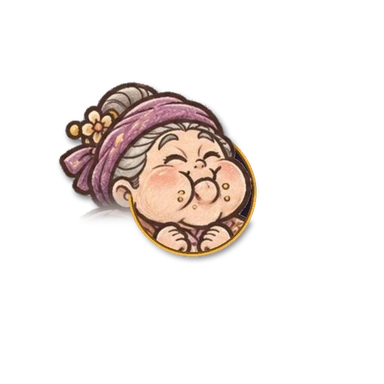
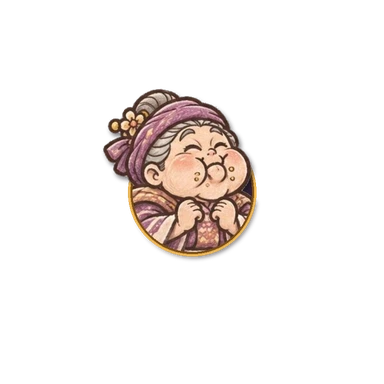
kpi: 考核官頭像出圈改「頸線法」（popout.py v3）：頸線以上成個頭、官帽連展腳全長完整出圈，頸線以下只留圈內由金圈前緣蓋住，圈外冇切口冇淡出；六位重出；加 kpi_avatar_check.py（貼邊／頭部完整／展腳尖／切口／大細圖一致）六張全過
Claude-Session: https://claude.ai/code/session_01UmiVpDHfnmvxquNGxGA5Pc

Changed region(s): [[0.1562, 0.1875, 0.6875, 0.6562]]

diff --git a/art/vil2/kpi_boss/popout.py b/art/vil2/kpi_boss/popout.py
@@ -1,17 +1,22 @@
-# 考核官頭像「探出圈」合成：深紫圓底＋金邊圈；帽／頭頂越出圈上緣，下半身被圈底裁走，金圈前緣蓋住身體
-import sys, numpy as np
+# 考核官頭像「探出圈」合成 v3（頸線法）：深紫圓底＋金邊圈。
+# 做法：自動搵「頸線」（臉以下輪廓最窄嗰行），縮放＋擺位令頸線兩端都喺圈內；
+#   頸線以上（成個頭、官帽連展腳全長、頭巾、頭髮、面珠）完整保留、可以出圈；
+#   頸線以下只留圈內，由金圈前緣蓋住。咁樣圈外冇任何切口、冇淡出，頭部一定完整。
+# 用法：python3 popout.py <spr 目錄> <輸出目錄> <預覽 jpg> <meta json>；之後跑 godot/tools/devkit/art/kpi_avatar_check.py
+import sys, json, numpy as np
 from PIL import Image, ImageDraw, ImageFilter
 from scipy import ndimage
 SPR = sys.argv[1]; OUT = sys.argv[2]
-# key: (src, 臉中心 y 比例, 頭頂到臉中心想佔幾多 R)
 # key: (src, 臉中心 x 比例, 臉中心 y 比例, 要刪嘅漂浮道具框 (x0,y0,x1,y1) 比例或 None)
 CH = {"chen": ("kpi_boss_chen_full.webp", 0.435, 0.285, (0.70, 0.185, 1.0, 0.56)),
       "he": ("kpi_boss_he_full.webp", 0.40, 0.27, (0.675, 0.13, 1.0, 0.42)),
       "qian": ("kpi_boss_qian_full.webp", 0.32, 0.31, None), "dato": ("kpi_boss_dato_full.webp", 0.41, 0.265, None),
       "nuo": ("kpi_boss_nuo_full.webp", 0.44, 0.25, None), "pang": ("bm_pang.webp", 0.45, 0.255, None)}
-SPAN = 1.45      # 頭頂到臉中心 = 1.5R（帽約 1/3 頭高出圈）
-FACE_DY = -0.28 # 臉中心喺圓心上少少
 R = 128; CAN = 768; C = CAN // 2   # 畫布＝圓直徑 3 倍（帽展腳全長都裝得落）
+NECK_W = 1.78    # 頸線闊度上限（以 R 計；圈弦長喺頸線高度一定大過佢）
+HEAD_H = 1.95    # 頭頂到頸線高度上限（以 R 計）
+TOP = 1.62       # 頭頂喺圓心上面幾多 R（即出圈約 0.6R）
+MARGIN = 5       # 頸線兩端離圈邊最少幾多 px
 def main_body(im):
     a = np.array(im)[:, :, 3] > 24
     lab, n = ndimage.label(a)
@@ -20,6 +25,12 @@ def main_body(im):
     keep = lab == (int(np.argmax(sizes)) + 1)
     arr = np.array(im); arr[:, :, 3] = np.where(keep, arr[:, :, 3], 0)
     return Image.fromarray(arr)
+def find_neck(im, fy):
+    a = np.array(im)[:, :, 3] > 60; H = a.shape[0]; best = None
+    for y in range(int(fy * H), int((fy + 0.22) * H)):
+        xs = np.nonzero(a[y])[0]; w = int(xs.max() - xs.min())
+        if best is None or w < best[0]: best = (w, y, int(xs.min()), int(xs.max()))
+    return best
 def make(key):
     src, fx, fy, prop = CH[key]
     im = Image.open(f"{SPR}/{src}").convert("RGBA")
@@ -28,83 +39,61 @@ def make(key):
         a[int(prop[1] * H0):int(prop[3] * H0), int(prop[0] * W0):int(prop[2] * W0), 3] = 0
         im = Image.fromarray(a)
     im = main_body(im)
-    if prop:
-        a2 = np.array(im)[:, :, 3]; W0, H0 = im.size
-        x0 = int(prop[0] * W0); y0 = int(prop[1] * H0); y1 = int(prop[3] * H0)
-        PROPCUT[key] = int(np.sum(a2[max(0, y0):min(y1, int(fy * H0)), max(0, x0 - 1)] > 120)) + int(np.sum(a2[max(0, y0 - 1), x0:] > 120))
-    bb = im.getbbox(); top = bb[1]
-    face_x = fx * im.width; face_y = fy * im.height
-    s = SPAN * R / max(1.0, face_y - top)
-    fig = im.resize((int(im.width * s), int(im.height * s)), Image.LANCZOS)
-    ox = int(round(C - face_x * s)); oy = int(round(C + FACE_DY * R - face_y * s))
+    top = im.getbbox()[1]
+    nw, ny, nl, nr = find_neck(im, fy)
+    s = min(NECK_W * R / nw, HEAD_H * R / (ny - top))
+    hh = (ny - top) * s / R                       # 頭高（R）
+    dy = float(np.clip(hh - TOP, -0.30, 0.35))    # 頸線喺圓心下面幾多 R
+    Yn = int(round(C + dy * R))
+    half = (R * R - (Yn - C) ** 2) ** 0.5 - MARGIN - 3
+    fig = im.resize((int(round(im.width * s)), int(round(im.height * s))), Image.LANCZOS)
+    ox = C - fx * im.width * s                    # 先以臉中心對圓心，再最少量平移令頸線兩端入圈
+    l = ox + nl * s; r = ox + nr * s
+    if r - l > 2 * half: ox += C - (l + r) / 2
+    elif l < C - half: ox += (C - half) - l
+    elif r > C + half: ox -= r - (C + half)
+    ox = int(round(ox)); oy = int(round(Yn - ny * s))
     layer = Image.new("RGBA", (CAN, CAN)); layer.paste(fig, (ox, oy), fig)
-    # 遮罩：圈內全顯；臉中心以上（帽＋展腳全長＋頭頂）全闊保留；臉中心至下巴只留頭部橢圓；以下只留圈內
-    fyc = C + FACE_DY * R
+    # 遮罩：圈內全顯；頸線以上全部保留
     m = Image.new("L", (CAN, CAN), 0); d = ImageDraw.Draw(m)
+    d.rectangle((0, 0, CAN, Yn), fill=255)
     d.ellipse((C - R + 3, C - R + 3, C + R - 3, C + R - 3), fill=255)
-    d.rectangle((0, 0, CAN, int(fyc)), fill=255)
-    d.ellipse((int(C - 1.22 * R), int(fyc - 1.6 * R), int(C + 1.22 * R), int(fyc + 0.62 * R)), fill=255)
-    # 圈外、連住頭頂嘅整塊（斜展腳、頭巾尾、頭髮）：按連通塊整塊保留，唔用直線切
-    al0 = np.array(layer)[:, :, 3]
-    yy0, xx0 = np.mgrid[0:CAN, 0:CAN]
-    outc0 = (xx0 - C) ** 2 + (yy0 - C) ** 2 > (R - 2) ** 2
-    zone = outc0 & (yy0 < fyc + 0.9 * R) & (al0 > 6)
-    lab, n = ndimage.label(zone)
-    if n:
-        hit = np.unique(lab[(yy0 < fyc) & zone])
-        keep = np.isin(lab, hit[hit > 0])
-        keep = ndimage.binary_dilation(keep, iterations=3).astype(np.float32)
-        # 連住頭嘅膊頭：由耳仔高度向下慢慢淡出（長漸變，唔係硬切）
-        wy = np.clip((fyc + 0.7 * R - yy0) / (0.45 * R), 0.0, 1.0)
-        ma0 = np.maximum(np.array(m).astype(np.float32), keep * wy * 255.0).astype(np.uint8)
-        m = Image.fromarray(ma0)
-    m = m.filter(ImageFilter.GaussianBlur(2.2))
-    # 硬切口檢查：圈外、遮罩半透明而角色實心嘅像素
-    ma = np.array(m).astype(np.float32); al = np.array(layer)[:, :, 3].astype(np.float32)
-    yy, xx = np.mgrid[0:CAN, 0:CAN]; outc = (xx - C) ** 2 + (yy - C) ** 2 > (R + 6) ** 2
-    gy, gx = np.gradient(ma); gm = np.hypot(gx, gy)
-    hard = outc & (al > 160) & (gm > 255.0 / 10.0)   # 10 px 內由實變透＝硬切口
-    cuts = int(np.sum(hard))
-    edge = int(np.sum(al[0, :] > 10) + np.sum(al[:, 0] > 10) + np.sum(al[:, -1] > 10))
-    CUTS[key] = (cuts, edge)
-    ys, xs = np.nonzero(hard)
-    if len(ys): CUTS[key] = (cuts, edge, int(ys.min()-C), int(ys.max()-C), int(xs.min()-C), int(xs.max()-C))
-    la = np.array(layer); la[:, :, 3] = (la[:, :, 3].astype(np.float32) * np.array(m) / 255.0).astype(np.uint8)
+    la = np.array(layer); ma = np.array(m)
+    la[:, :, 3] = np.where(ma > 0, la[:, :, 3], 0)
     fig_m = Image.fromarray(la)
     out = Image.new("RGBA", (CAN, CAN))
-    d2 = ImageDraw.Draw(out)
-    d2.ellipse((C - R, C - R, C + R, C + R), fill=(58, 36, 64, 245))
-    # 圈內暗角
+    ImageDraw.Draw(out).ellipse((C - R, C - R, C + R, C + R), fill=(58, 36, 64, 245))
     vg = Image.new("L", (CAN, CAN), 0); ImageDraw.Draw(vg).ellipse((C - R + 14, C - R + 14, C + R - 14, C + R - 14), fill=255)
     vg = vg.filter(ImageFilter.GaussianBlur(14)); dark = Image.new("RGBA", (CAN, CAN), (20, 10, 24, 0))
     circ = Image.new("L", (CAN, CAN), 0); ImageDraw.Draw(circ).ellipse((C - R, C - R, C + R, C + R), fill=255)
     dark.putalpha(Image.fromarray((np.array(circ) * (1 - np.array(vg) / 255.0) * 0.55).astype(np.uint8)))
     out.alpha_composite(dark)
-    # 金圈（後）
     ring = lambda dr, w, col: dr.ellipse((C - R, C - R, C + R, C + R), outline=col, width=w)
     ring(ImageDraw.Draw(out), 9, (122, 78, 26, 255)); ring(ImageDraw.Draw(out), 5, (232, 176, 74, 255))
-    # 投影（出圈部分最明顯）
+    # 投影（只做出圈部分）
     sh = Image.new("RGBA", (CAN, CAN), (10, 4, 12, 0)); sa = np.array(fig_m)[:, :, 3]
-    sh.putalpha(Image.fromarray((sa * 0.55).astype(np.uint8)))
-    sh = sh.filter(ImageFilter.GaussianBlur(5)); sh2 = Image.new("RGBA", (CAN, CAN)); sh2.alpha_composite(sh, (5, 7))
+    sh.putalpha(Image.fromarray((sa * 0.5).astype(np.uint8)))
+    sh = sh.filter(ImageFilter.GaussianBlur(4)); sh2 = Image.new("RGBA", (CAN, CAN)); sh2.alpha_composite(sh, (4, 6))
     out.alpha_composite(sh2)
     out.alpha_composite(fig_m)
-    # 金圈前緣：蓋住下半身（切線以下嗰段弧）
+    # 金圈前緣：頸線以下成段弧蓋住身體
     front = Image.new("RGBA", (CAN, CAN)); fd = ImageDraw.Draw(front)
     ring(fd, 9, (122, 78, 26, 255)); ring(fd, 5, (232, 176, 74, 255))
-    fm = Image.new("L", (CAN, CAN), 0); ImageDraw.Draw(fm).rectangle((0, int(C + 0.05 * R), CAN, CAN), fill=255)
-    fa = np.array(front); fa[:, :, 3] = (fa[:, :, 3].astype(np.float32) * np.array(fm.filter(ImageFilter.GaussianBlur(3))) / 255.0).astype(np.uint8)
+    fa = np.array(front); fa[:Yn + 1, :, 3] = 0
     out.alpha_composite(Image.fromarray(fa))
     nm = "kpi_boss_" + key
     out.save(f"{OUT}/{nm}.webp", lossless=False, quality=92)
     out.resize((CAN // 2, CAN // 2), Image.LANCZOS).save(f"{OUT}/{nm}_s.webp", quality=92)
+    # 檢查用資料：頸線位置、角色層（未加圈／投影）bbox、原圖頭部 bbox 換算到畫布
+    hb = Image.fromarray((np.array(im)[:ny, :, 3] > 60).astype(np.uint8) * 255).getbbox()
+    META[key] = {"src": src, "prop": prop, "neck_y": Yn, "scale": round(s, 4), "ox": ox, "oy": oy,
+                 "head_src_canvas": [int(ox + hb[0] * s), int(oy + hb[1] * s), int(ox + hb[2] * s), int(oy + hb[3] * s)],
+                 "neck_x": [int(round(ox + nl * s)), int(round(ox + nr * s))]}
     return out
-CUTS = {}
-PROPCUT = {}
+META = {}
 outs = [make(k) for k in CH]
-print('硬切口像素（圈外）／貼邊像素：', CUTS)
-print('道具框切到主體像素：', PROPCUT)
-# 預覽：暗底＋亮底
+json.dump({"R": R, "CAN": CAN, "bosses": META}, open(sys.argv[4], "w"), indent=1)
+print(json.dumps(META))
 pv = Image.new("RGBA", (CAN * len(outs), CAN * 2), (30, 26, 34, 255))
 ImageDraw.Draw(pv).rectangle((0, CAN, pv.width, pv.height), fill=(232, 216, 186, 255))
 for i, o in enumerate(outs):

diff --git a/godot/tools/devkit/art/kpi_avatar_check.py b/godot/tools/devkit/art/kpi_avatar_check.py
@@ -1,0 +1,67 @@
+#!/usr/bin/env python3
+# 考核官頭像出圈檢查。六張全過先算完成（任何一項唔過 exit 1）。
+# 用法：python3 kpi_avatar_check.py <repo 根目錄>
+# 檢查：
+#  1 貼邊：大圖／細圖 alpha>0 嘅像素唔可以掂到畫布四邊（留最少 EDGE px）
+#  2 頭部完整：成品喺頸線以上嘅不透明範圍，要同原圖頭部（縮放後）bbox 一致（±TOL），即冇被遮罩／畫布裁走
+#  3 展腳：有官帽嘅四位，左右展腳尖都要喺畫布內，而且原圖展腳尖係收口（唔係被原圖邊界切平）
+#  4 冇切口：頸線以下、圈外唔可以有實心角色像素（頸線兩端一定喺圈內）
+#  5 大細圖一致：細圖＝大圖縮一半
+import sys, json, numpy as np
+from PIL import Image
+ROOT = sys.argv[1] if len(sys.argv) > 1 else "."
+SPR = f"{ROOT}/godot/assets/spr"; META = json.load(open(f"{ROOT}/art/vil2/kpi_boss/popout_meta.json"))
+R = META["R"]; CAN = META["CAN"]; C = CAN // 2; EDGE = 8; TOL = 4
+HAT = {"chen", "he", "qian", "dato"}
+bad = 0
+def chk(key, name, ok, info=""):
+    global bad
+    if not ok: bad += 1
+    print(f"  [{'過' if ok else '敗'}] {key} {name} {info}")
+def bbox(mask):
+    ys, xs = np.nonzero(mask); return int(xs.min()), int(ys.min()), int(xs.max()), int(ys.max())
+for key, m in META["bosses"].items():
+    big = np.array(Image.open(f"{SPR}/kpi_boss_{key}.webp").convert("RGBA"))[:, :, 3]
+    sm = np.array(Image.open(f"{SPR}/kpi_boss_{key}_s.webp").convert("RGBA"))[:, :, 3]
+    chk(key, "畫布尺寸", big.shape == (CAN, CAN) and sm.shape == (CAN // 2, CAN // 2), f"{big.shape} {sm.shape}")
+    for nm, a, e in (("大圖", big, EDGE), ("細圖", sm, EDGE // 2)):
+        x0, y0, x1, y1 = bbox(a > 0)
+        chk(key, f"{nm}唔貼邊", x0 >= e and y0 >= e and x1 < a.shape[1] - e and y1 < a.shape[0] - e, f"bbox={x0},{y0},{x1},{y1}")
+    # 頭部完整：頸線以上、實心（>200，避開投影）範圍 vs 原圖頭部縮放 bbox
+    ny = m["neck_y"]; hx0, hy0, hx1, hy1 = m["head_src_canvas"]
+    yy, xx = np.mgrid[0:CAN, 0:CAN]; outc = (xx - C) ** 2 + (yy - C) ** 2 > (R + 6) ** 2
+    solid = big > 200
+    ox0, oy0, ox1, oy1 = bbox(solid & outc & (yy < ny))
+    full = hx0 >= EDGE and hy0 >= EDGE and hx1 < CAN - EDGE
+    chk(key, "頭部範圍喺畫布內", full, f"原圖頭部→畫布 x {hx0}..{hx1} y {hy0}..")
+    chk(key, "頭頂完整", abs(oy0 - hy0) <= TOL, f"成品頂 {oy0} 原圖頂 {hy0}")
+    # 出圈部分左右極值：原圖頭部如果闊過圈，成品要到齊
+    if hx0 < C - R - 6: chk(key, "左邊出圈完整", abs(ox0 - hx0) <= TOL, f"成品 {ox0} 原圖 {hx0}")
+    if hx1 > C + R + 6: chk(key, "右邊出圈完整", abs(ox1 - hx1) <= TOL, f"成品 {ox1} 原圖 {hx1}")
+    chk(key, "頭頂出圈", oy0 < C - R - 10, f"出圈 {C - R - oy0}px")
+    # 冇切口：頸線以下圈外冇實心像素；頸線兩端喺圈內
+    cut = int(np.sum(solid & outc & (yy > ny + 8)))
+    chk(key, "頸線以下圈外冇角色像素", cut == 0, f"{cut}px")
+    half = (R * R - (ny - C) ** 2) ** 0.5
+    chk(key, "頸線兩端喺圈內", m["neck_x"][0] > C - half and m["neck_x"][1] < C + half, f"{m['neck_x']} 圈 {int(C - half)}..{int(C + half)}")
+    # 大細圖一致
+    ds = np.array(Image.fromarray(big).resize((CAN // 2, CAN // 2), Image.LANCZOS)).astype(int)
+    chk(key, "大細圖一致", float(np.mean(np.abs(ds - sm.astype(int)))) < 4.0)
+    if key in HAT:
+        # 展腳：原圖頭部區（頸線以上）最左／最右一列嘅實心段長，要明顯短過入面 14px 嗰列（即尖端收口，唔係被邊界切平）
+        # 同 popout.py 一樣先刪漂浮道具、只留最大連通塊，先至量展腳
+        from scipy import ndimage
+        sa = np.array(Image.open(f"{SPR}/{m['src']}").convert("RGBA"))[:, :, 3].copy(); H0, W0 = sa.shape
+        if m.get("prop"):
+            p = m["prop"]; sa[int(p[1] * H0):int(p[3] * H0), int(p[0] * W0):int(p[2] * W0)] = 0
+        lab, n = ndimage.label(sa > 24); sz = ndimage.sum(np.ones_like(lab), lab, range(1, n + 1))
+        src = (lab == int(np.argmax(sz)) + 1) & (sa > 60)
+        s = m["scale"]; nys = int(round((ny - m["oy"]) / s)); head = src[:nys]
+        cols = np.nonzero(head.any(axis=0))[0]
+        for side, c0, step in (("左", int(cols.min()), 1), ("右", int(cols.max()), -1)):
+            tip = int(head[:, c0].sum()); inner = max(int(head[:, c0 + step * k].sum()) for k in range(10, 18))
+            chk(key, f"{side}展腳尖收口（原圖冇被切）", tip <= 0.7 * inner, f"尖 {tip}px／身 {inner}px")
+            cx = m["ox"] + c0 * s
+            chk(key, f"{side}展腳尖喺畫布內", EDGE <= cx < CAN - EDGE, f"x={int(cx)}")
+print("RESULT", "全部通過" if bad == 0 else f"唔過 {bad} 項")
+sys.exit(1 if bad else 0)
